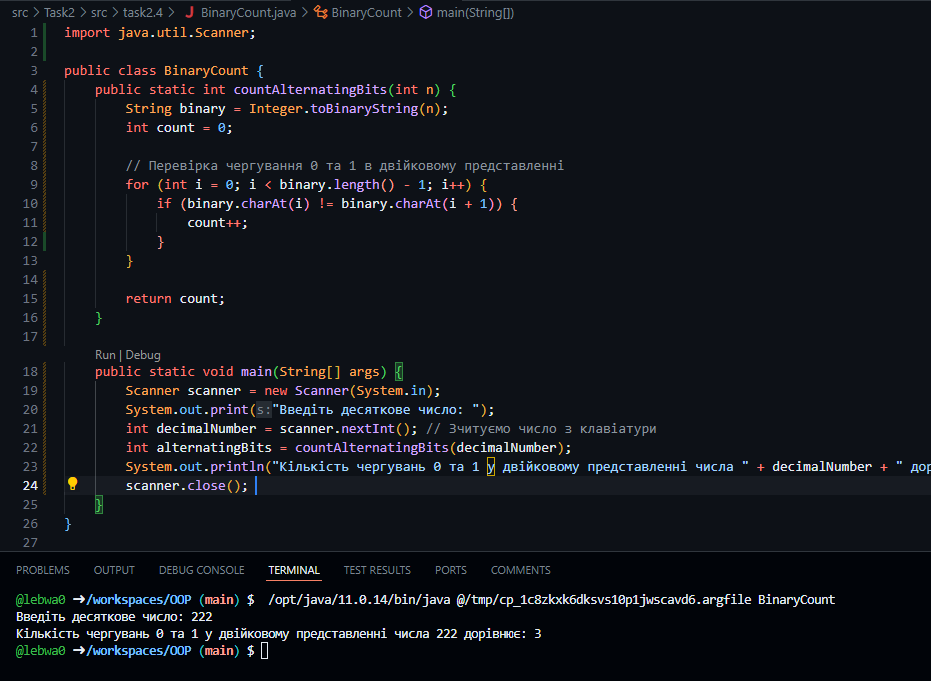
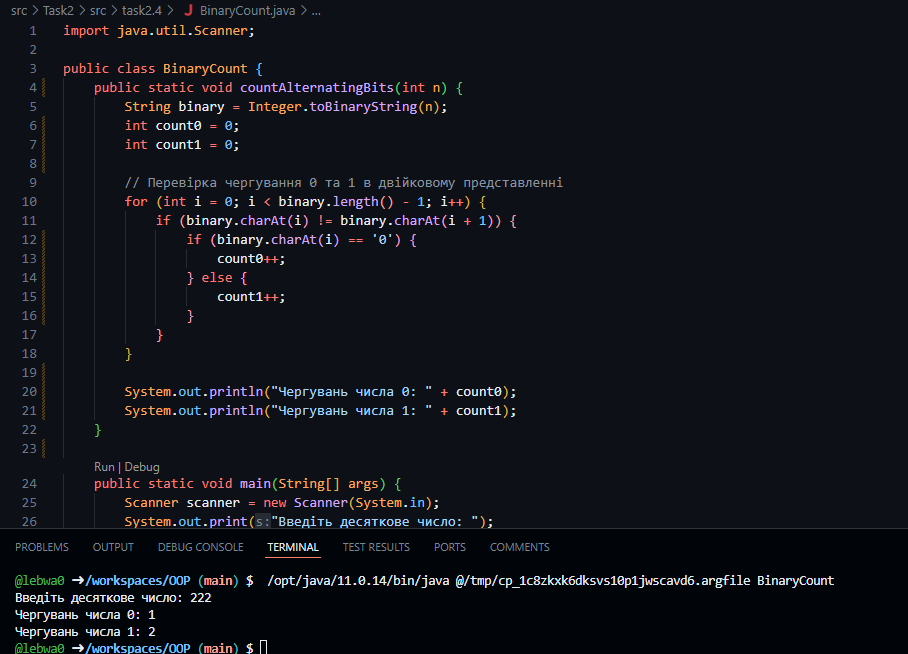
4444

diff --git a/src/Task2/src/task2.4/BinaryCount.java b/src/Task2/src/task2.4/BinaryCount.java
@@ -1,26 +1,31 @@
 import java.util.Scanner;
 
 public class BinaryCount {
-    public static int countAlternatingBits(int n) {
+    public static void countAlternatingBits(int n) {
         String binary = Integer.toBinaryString(n);
-        int count = 0;
-        
+        int count0 = 0;
+        int count1 = 0;
+
         // Перевірка чергування 0 та 1 в двійковому представленні
         for (int i = 0; i < binary.length() - 1; i++) {
             if (binary.charAt(i) != binary.charAt(i + 1)) {
-                count++;
+                if (binary.charAt(i) == '0') {
+                    count0++;
+                } else {
+                    count1++;
+                }
             }
         }
-        
-        return count;
+
+        System.out.println("Чергувань числа 0: " + count0);
+        System.out.println("Чергувань числа 1: " + count1);
     }
-    
+
     public static void main(String[] args) {
         Scanner scanner = new Scanner(System.in);
         System.out.print("Введіть десяткове число: ");
         int decimalNumber = scanner.nextInt(); // Зчитуємо число з клавіатури
-        int alternatingBits = countAlternatingBits(decimalNumber);
-        System.out.println("Кількість чергувань 0 та 1 у двійковому представленні числа " + decimalNumber + " дорівнює: " + alternatingBits);
-        scanner.close(); 
+        countAlternatingBits(decimalNumber);
+        scanner.close(); // Закриваємо Scanner
     }
 }
